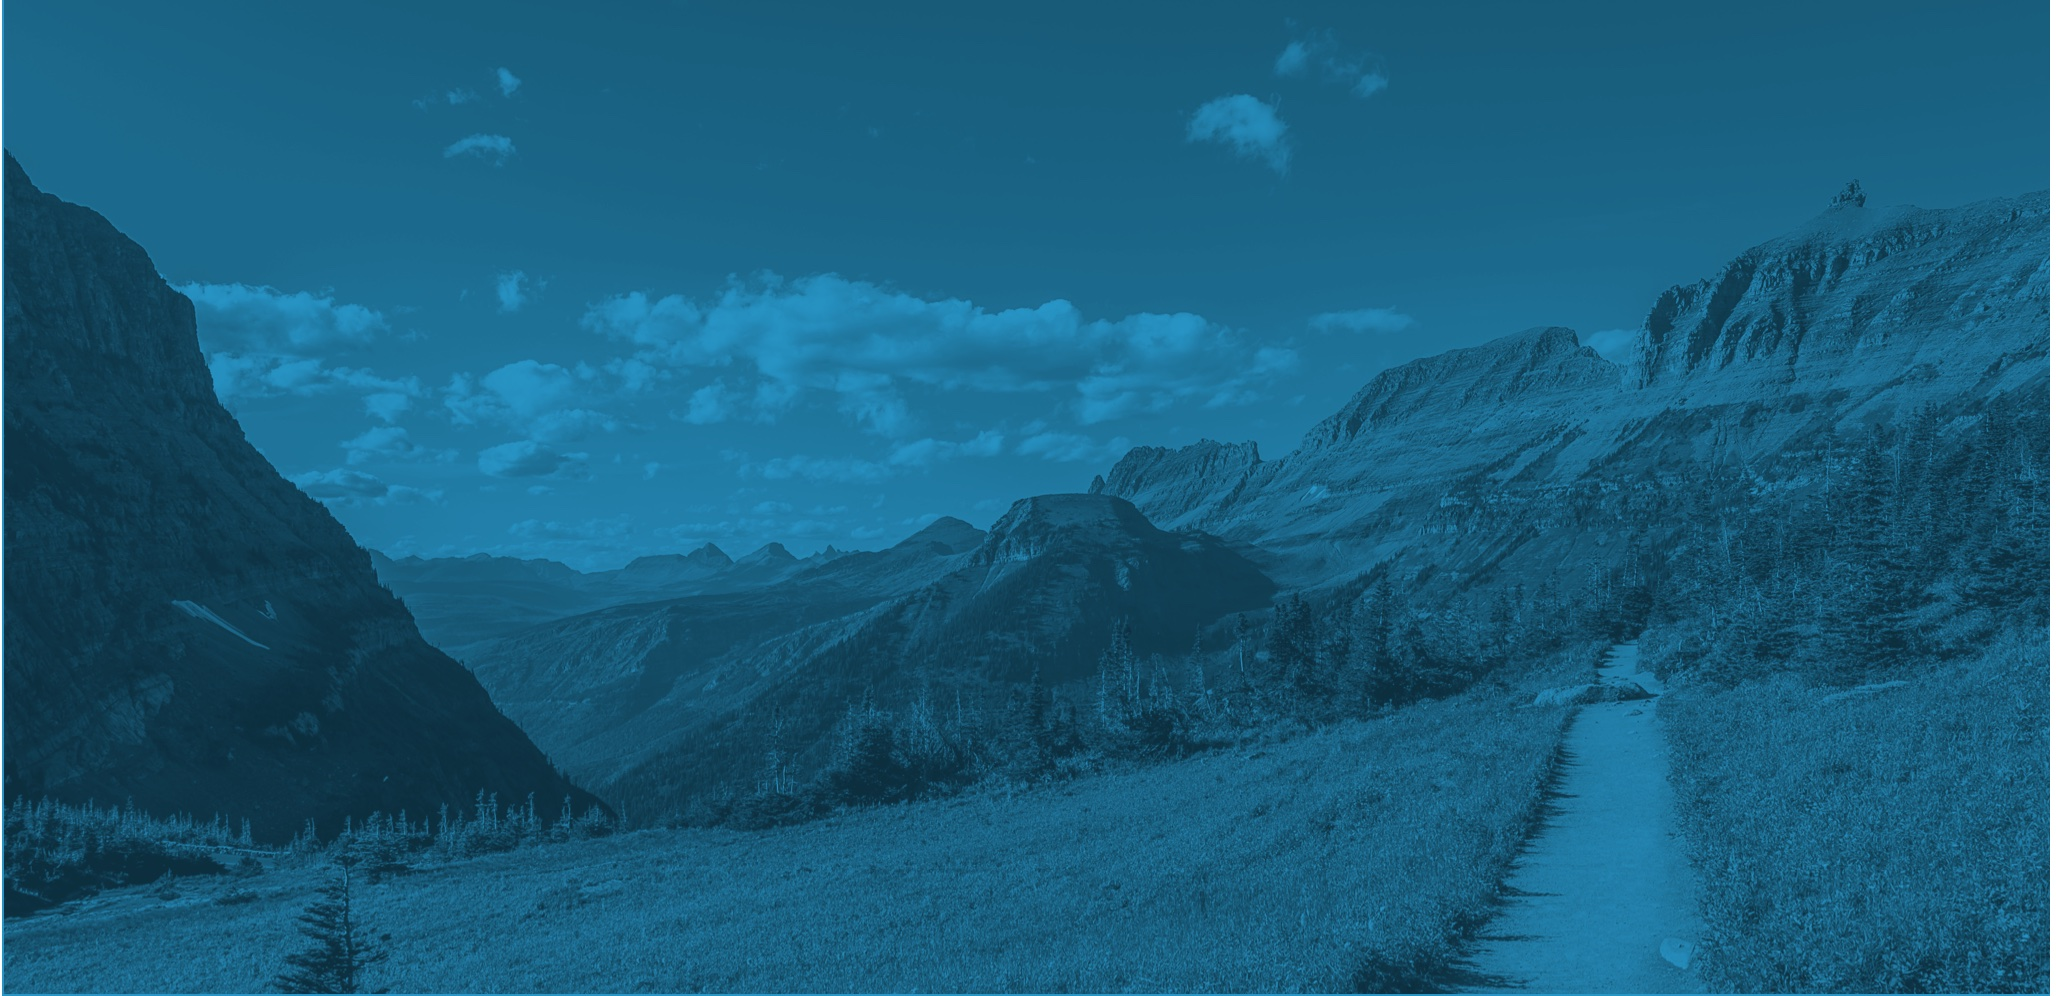
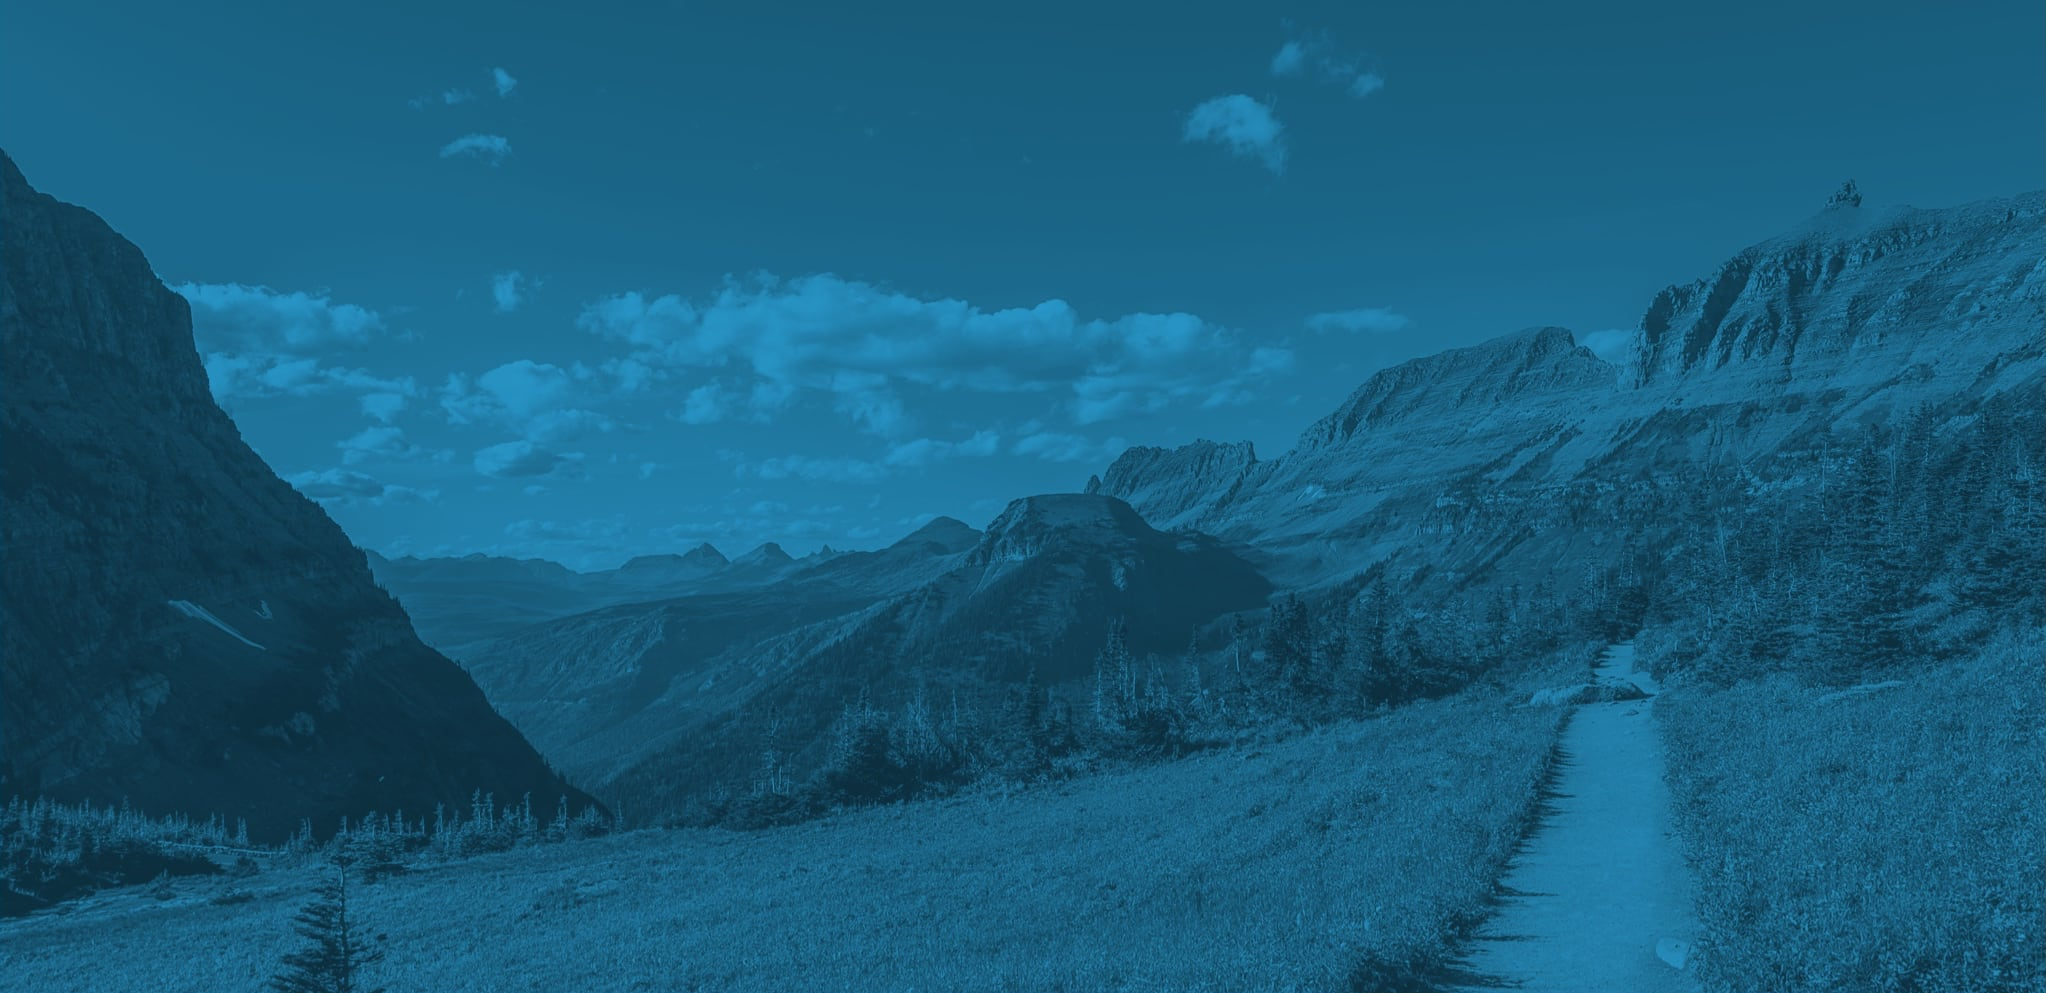
Ridespot promo set

diff --git a/components/slices/ridespot-promo.js b/components/slices/ridespot-promo.js
@@ -1,29 +1,34 @@
-import React from "react";
 import styled from "styled-components";
 import Image from "next/image"
 
 import { randomID } from "../../lib/utils";
-
 import RideSpotRide from "./ridespot-ride";
 
-import RideSpotBg1 from "../../public/RidespotBg.jpg";
+import RideSpotBg from "../../public/RidespotBg.jpg";
 import RideSpotLogo from "../../public/RideSpotRidesLogo.svg";
 
-const Bg = styled.div`
+const RSContainer = styled.section`
   background-color: ${(props) => props.theme.lightestGray};
   margin-bottom: 2vh;
+  padding: 6vh 2vw 8vh 2vw !important;
 `;
 
-// BgImage will check for ride payload, set margins accordingly
-const BgImage = styled.section`
-  align-items: center;
-  background-image: url(${RideSpotBg1});
-  background-position: center center;
-  background-size: cover;
-  display: flex;
-  flex-direction: column;
-  justify-content: space-around;
+const RSHeaderContainer = styled.a`
+  display: block;
+`
+
+const RSHeaderBGContainer = styled.section`
+  display: block;
+  height: 50vh;
+  width: 100vw;
+  z-index: ${ props => props.theme.zIndex01 };
 `;
+
+const RSLogo = styled(Image)`
+  display: absolute;
+  top: 50%;
+  transform: translateY(-50%);
+`
 
 const RSTitle = styled.h2`
   font-size: 36pt;
@@ -39,62 +44,11 @@ const RSTitle = styled.h2`
   }
 `;
 
-const RSDeck = styled.h3`
-  color: ${(props) => props.theme.yellow};
-  font-family: ${(props) => props.theme.dharma};
-  font-size: 40px;
-  font-weight: 600;
-  line-height: 40px;
-  margin: 0 25px;
-  text-align: center;
-  text-transform: uppercase;
-
-  @media screen and (min-width: 320px) {
-    font-size: calc(40px + 20 * ((100vw - 320px) / 880));
-    line-height: calc(40px + 20 * ((100vw - 320px) / 880));
-  }
-  @media screen and (min-width: 1200px) {
-    font-size: 60px;
-    line-height: 60px;
-  }
-`;
-
-const RSLogoContainer = styled.div`
-  margin: 0 auto;
-  max-width: 310px;
-
-  @media (min-width: ${(props) => props.theme.xs}) {
-    max-width: 350px;
-  }
-
-  @media (min-width: ${(props) => props.theme.md}) {
-    flex-basis: auto;
-    max-width: none;
-  }
-`;
-
-// Downloads
-const RSDownload = styled.section`
-  align-items: center;
-  display: flex;
-  justify-content: center;
-  margin: 25px 0;
-`;
-
-const RSBadge = styled.img`
-  height: 40px;
-  margin: 0 8px;
-  opacity: 0.85;
-  width: 120px;
-`;
-
 // Rides
 const RSRidesContainer = styled.section`
   display: flex;
   flex-wrap: wrap;
   justify-content: space-evenly;
-  /* margin: -120px auto 5vh auto;
-  max-width: 96vw; */
   margin: 0 auto;
   padding-bottom: 5vh;
 
@@ -107,12 +61,19 @@ const RSRidesContainer = styled.section`
   }
 `;
 
+const RSCardContainer = styled.div`
+  margin: 1vh 1vw;
+`;
+
+const RSCard = styled.img`
+  height: 60vh;
+`;
+
 const RSLink = styled.a`
   text-decoration: none;
   color: black;
   margin: 0;
   padding: 6vh 2vw 8vh 2vw !important;
-
   &:hover,
   &:focus,
   &:active,
@@ -122,24 +83,18 @@ const RSLink = styled.a`
   }
 `;
 
-const RSCardContainer = styled.div`
-  margin: 1vh 1vw;
-`;
-
-const RSCard = styled.img`
-  height: 60vh;
-`;
-
 /**
  * <RideSpotPromo>
  *
  * This produces the 3 RideSpot ride promos seen around the site.
  * The rides slightly break the plane of the container so beware
  *
- * @param { string } isLocal - true if payload is local rides, false is general rides
  * @param { object } payload - all the ridespot ride info
  */
-const RideSpotPromo = ({ isLocal = false, payload }) => {
+const RideSpotPromo = ({ 
+  payload 
+}) => {
+
   // Transform payload object into an array
   let payloadArr;
 
@@ -148,24 +103,34 @@ const RideSpotPromo = ({ isLocal = false, payload }) => {
   }
 
   return (
-    <Bg>
-      <RSLink href={"https://ridespot.org/"}>
-        <Image
+    <RSContainer>
+
+      <RSHeaderContainer 
+        href={"https://ridespot.org/"} 
+        passHref
+      >
+        <RSHeaderBGContainer>
+          <Image
+            alt="Ride Spot background of mountains"
+            src={ RideSpotBg }
+            layout="fill"
+            objectFit="cover"
+            quality={ 80 }
+          />
+        </RSHeaderBGContainer>  
+        {/* <RSLogo
           alt="Ride Spot Logo"
           src={ RideSpotLogo }
-          layout="fill"
-          objectFit="cover"
           quality={ 80 }
           width={ 300 }
           height={ 150 }
-        />
-        {/* <RSLogoContainer alt="RideSpot Logo" src= /> */}
-      </RSLink>
+        /> */}
+      </RSHeaderContainer>
+
       <RSTitle>
-        <RSLink href={"https://ridespot.org/"}>
-          use the Ridespot app to access great rides
-        </RSLink>
+        Use the Ride Spot App to access great rides
       </RSTitle>
+
       {payload && (
         <RSRidesContainer>
           {payloadArr.map((ride) => {
@@ -191,7 +156,8 @@ const RideSpotPromo = ({ isLocal = false, payload }) => {
           })}
         </RSRidesContainer>
       )}
-    </Bg>
+
+    </RSContainer>
   );
 };
 
